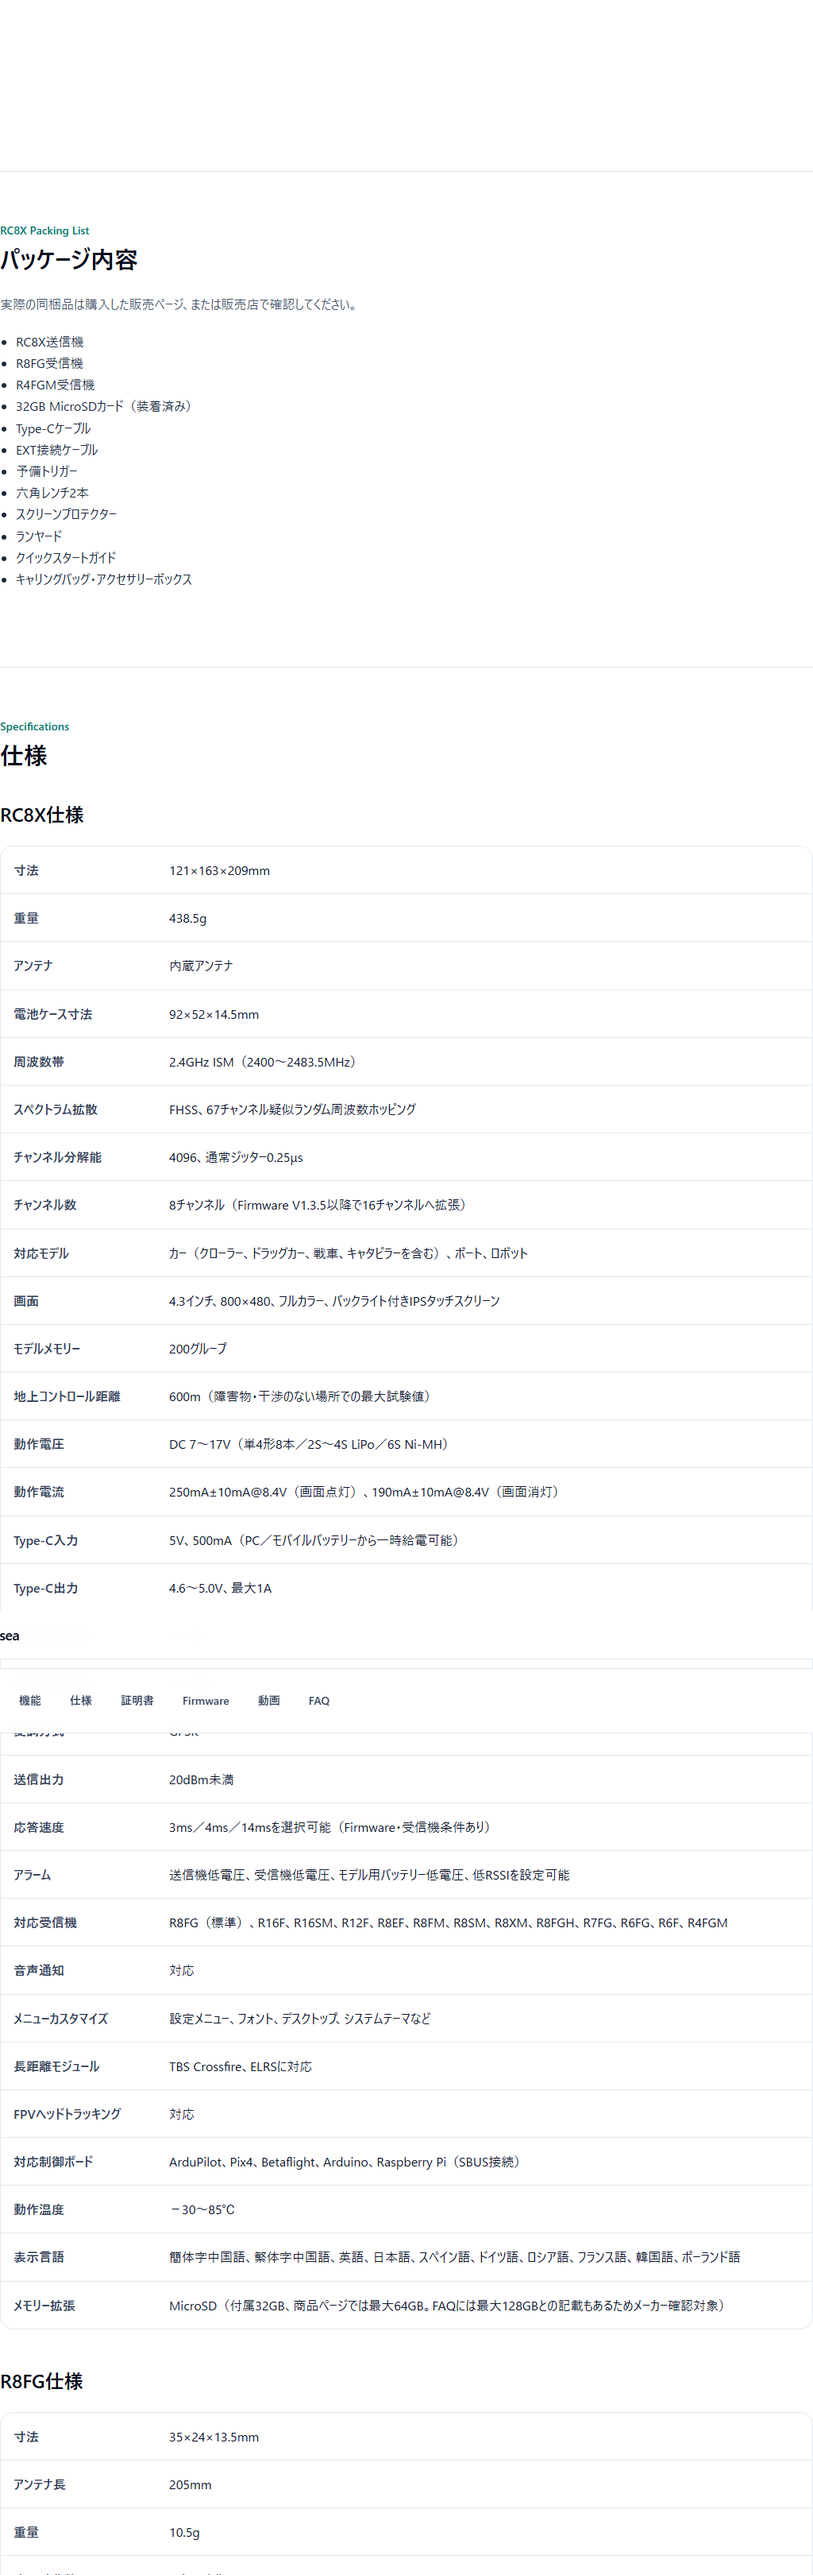
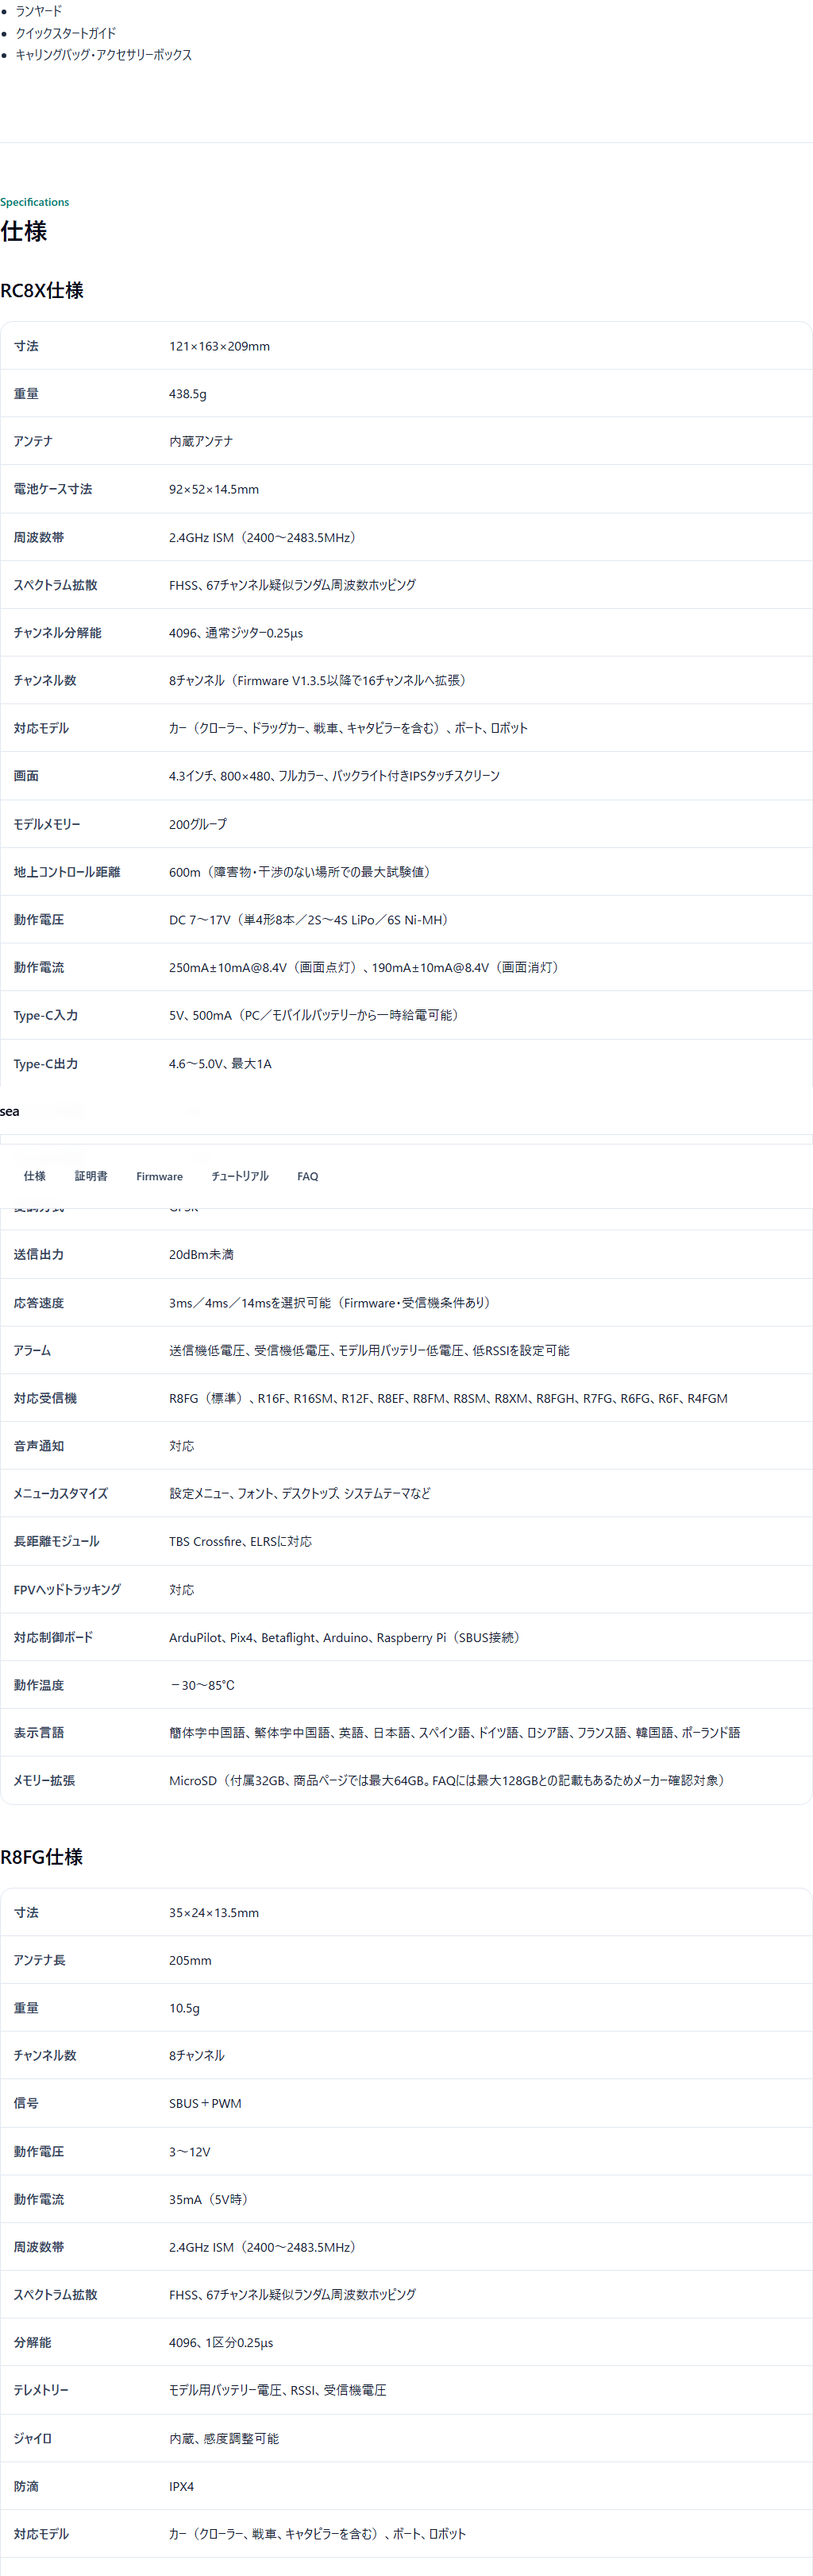
fix: refine RC8X product presentation

diff --git a/tests/e2e/site.spec.ts b/tests/e2e/site.spec.ts
@@ -62,10 +62,21 @@ test('navigation, category filtering, and LINE support work', async ({
   await expect(
     page.getByRole('link', { name: '英語マニュアル' }),
   ).toHaveAttribute('target', '_blank');
-  await expect(page.getByRole('link', { name: 'LINEで相談' })).toHaveAttribute(
-    'href',
-    'https://line.me/R/ti/p/%40662zyrsb',
-  );
+  await expect(
+    page.getByRole('link', { name: 'LINEで相談', exact: true }),
+  ).toHaveAttribute('href', 'https://line.me/R/ti/p/%40662zyrsb');
+  await expect(
+    page.getByRole('heading', { name: 'RC8X', exact: true }).last(),
+  ).toBeVisible();
+  await expect(
+    page.getByText('最大16チャンネル※', { exact: true }),
+  ).toBeVisible();
+  await expect(
+    page.getByRole('heading', { name: 'チュートリアル', exact: true }),
+  ).toBeVisible();
+  await expect(
+    page.locator('[data-feature-section="telemetry"] img'),
+  ).toHaveAttribute('src', /telemetry\.gif$/);
   await expect(page.locator('[data-product-nav]')).toBeVisible();
   await expect(page.locator('[data-product-section="manuals"]')).toHaveCount(0);
   await expect(page.locator('[data-product-section="support"]')).toHaveCount(0);

diff --git a/design-qa.md b/design-qa.md
@@ -1,0 +1,32 @@
+# RC8X design QA
+
+## Reference and implementation
+
+- Source truth: <https://www.radiolink.com.cn/rc8x> and the Radiolink ergonomics card layout attached in Browser Comment 3.
+- Implementation: `/radiolink/rc8x/`
+- Desktop evidence: `docs/screenshots/rc8x-official-fidelity/desktop-hero.png`, `desktop-feature-middle.png`, `desktop-full-page.png`
+- Mobile evidence: `docs/screenshots/rc8x-official-fidelity/mobile-hero.png`, `mobile-body.png`, `mobile-full-page.png`
+- Viewports: Desktop Chrome 1280 x 720; Pixel 7 412 x 915; device scale factor 1.
+- State: default page, collapsed tutorial list and FAQ.
+
+## Comparison
+
+| Surface          | Initial finding                                                                                              | Resolution                                                                                                                                                 | Result |
+| ---------------- | ------------------------------------------------------------------------------------------------------------ | ---------------------------------------------------------------------------------------------------------------------------------------------------------- | ------ |
+| Hero actions     | P1: English manual competed with the primary Japanese manual; LINE label made the action row too wide.       | Kept the Japanese manual as the primary pill, reduced the English manual to a labelled external text link, and used the official LINE brand icon at 44 px. | Passed |
+| Product summary  | P2: Overview and features were presented as separate concepts; the channel condition interrupted the metric. | Renamed the section and navigation to RC8X, changed the metric to `最大16チャンネル※`, and placed the Firmware condition directly below the metric grid.   | Passed |
+| Feature layout   | P1: Repeated full-width split rows made small customization and ergonomics points visually oversized.        | Retained split rows for major features and grouped compact points into responsive cards with contained media height.                                       | Passed |
+| Animated media   | P1: Official animated GIFs were being converted to static WebP/AVIF outputs.                                 | GIF inputs are copied byte-for-byte and referenced as GIF; the processor test verifies exact bytes and excludes static derivatives.                        | Passed |
+| Tutorial wording | P2: Video headings used `公式動画`, which did not match the intended user task.                              | Changed the section and disclosure labels to `チュートリアル`.                                                                                             | Passed |
+
+## Required surfaces
+
+- Desktop full view and focused Hero/feature/specification/tutorial/FAQ captures reviewed.
+- Mobile full view and focused Hero/body captures reviewed.
+- Hero CTA row stays on one line at 397 px content width with no horizontal overflow.
+- Telemetry media loaded from `/assets/radiolink/rc8x/telemetry.gif` at its natural 1920 x 780 dimensions.
+- Playwright desktop/mobile checks cover console errors, internal links, image responses, and overflow.
+
+No unresolved P0, P1, or P2 visual issues remain.
+
+final result: passed
